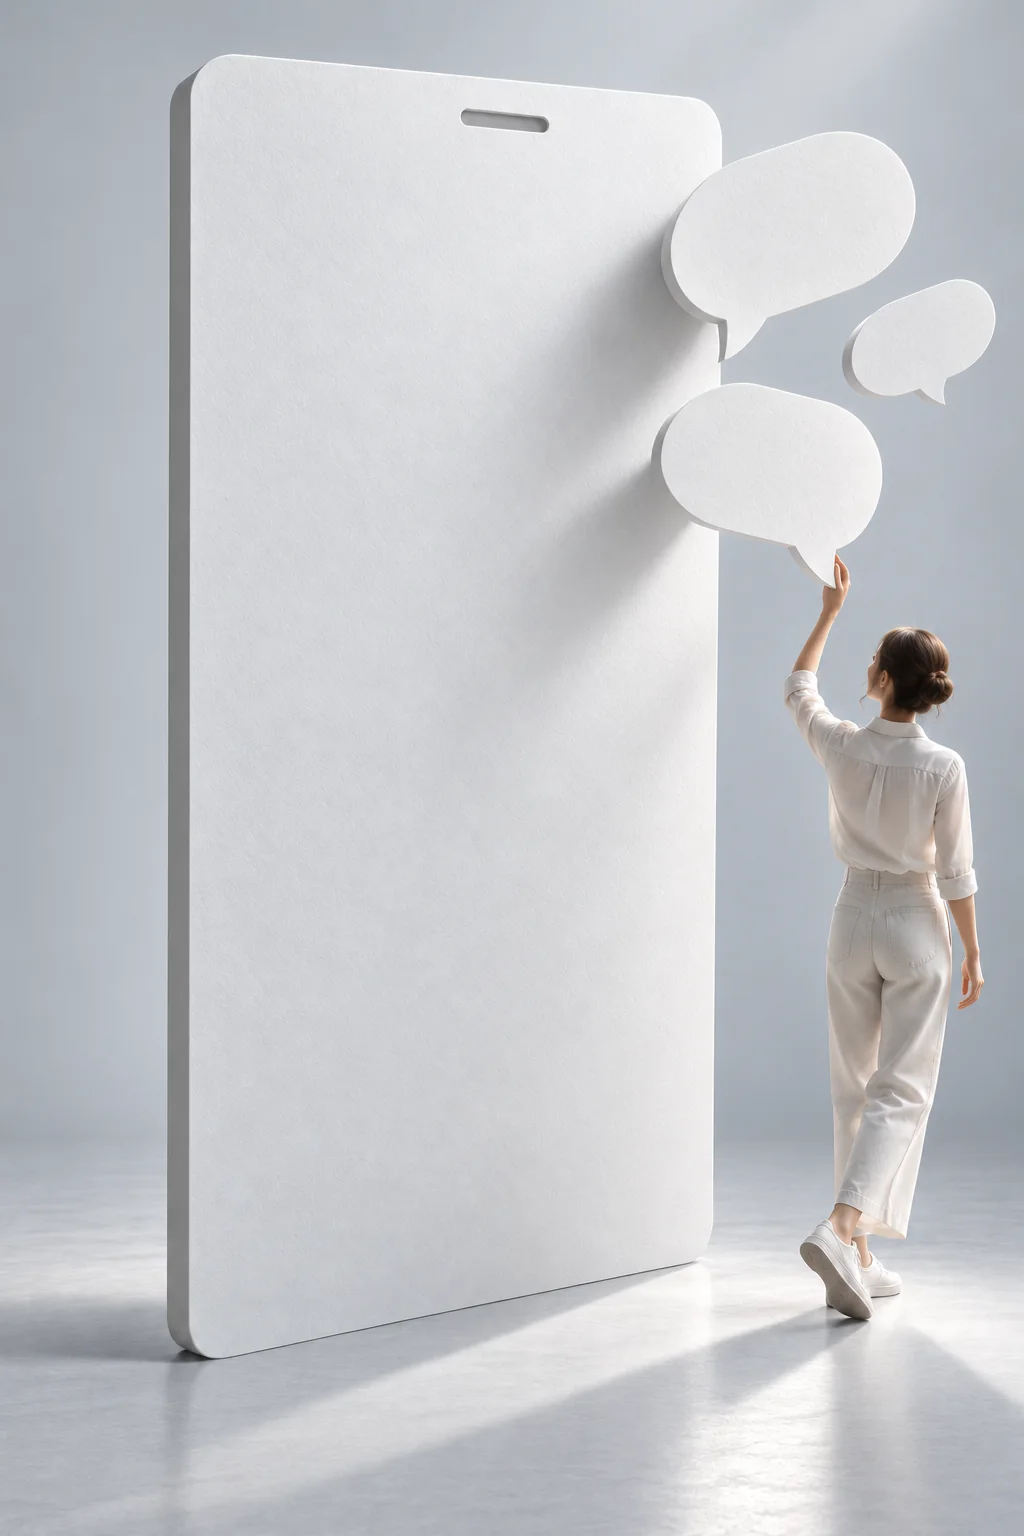
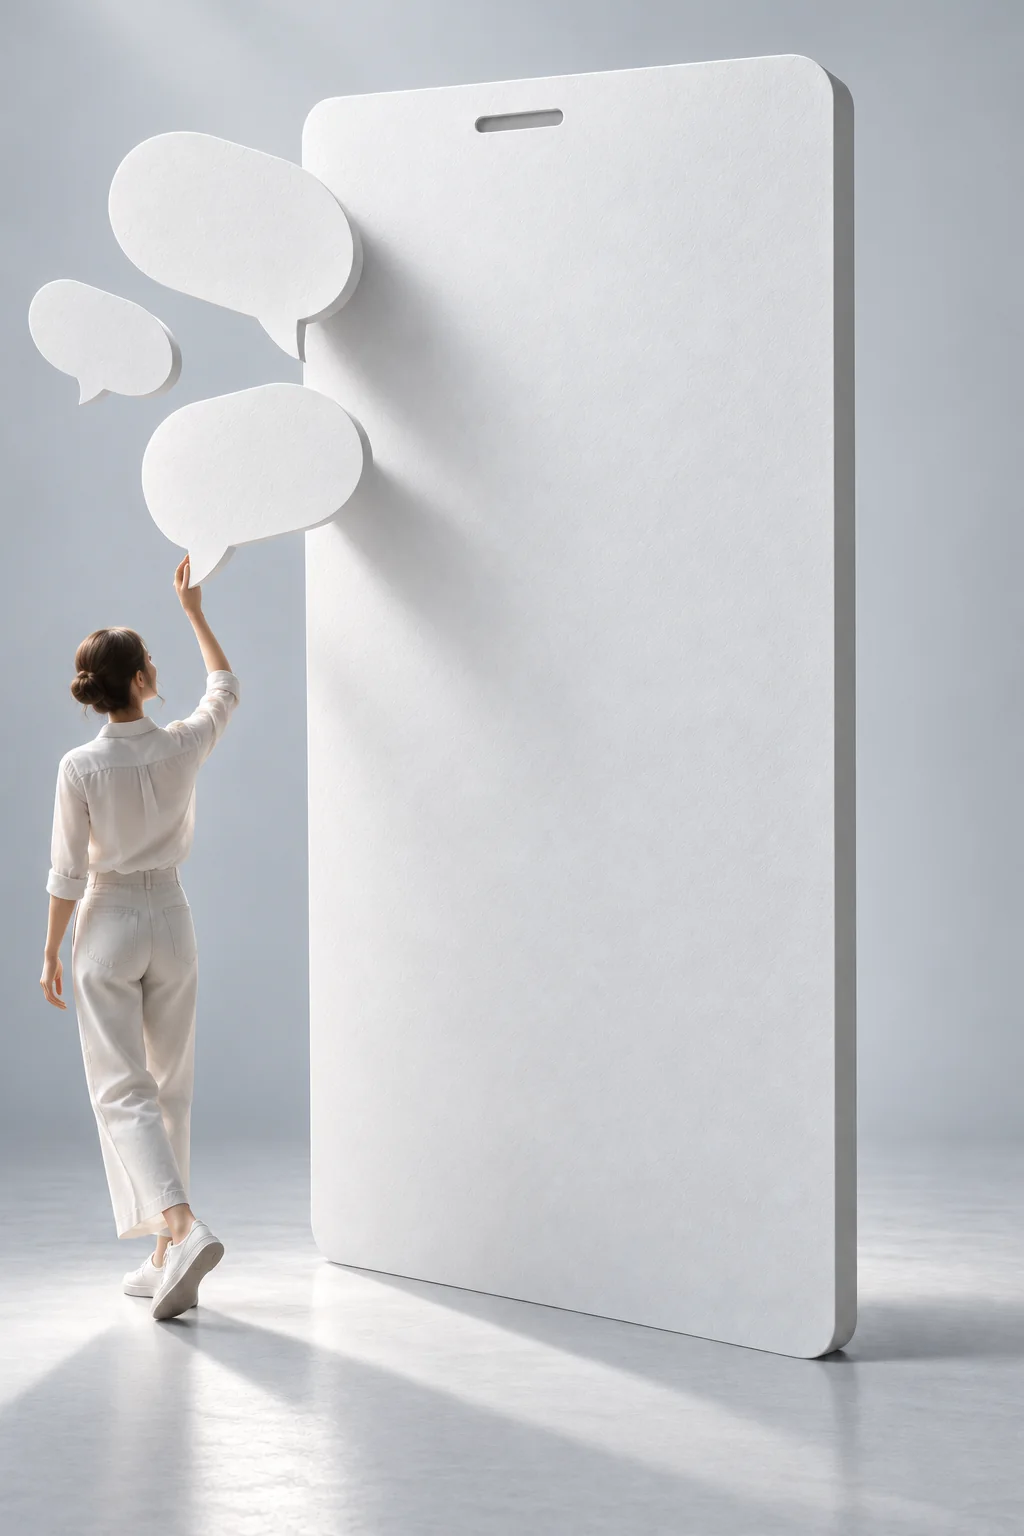
feat(onboarding): AI card follows the real AI screen, phone turned the other way
Palette A preview only.
- The printed AI page now follows the app's real AI screen (user's
  screenshot): back arrow, AI / Community tabs, avatar, a greeting, the
  A-REIT AI reply, a question, the guided question card (1/3 with three
  options, own reply, Skip / Next), the input bar and the disclaimer.
  Sample words only, no account data.
- The AI scene is mirrored so this phone faces the other way from card 1
  (woman on the left, bubbles upper left); face and clip mirrored, and the
  top of the page keeps clear of the bubbles.

diff --git a/components/onboarding/GuideCarousel.tsx b/components/onboarding/GuideCarousel.tsx
@@ -1,7 +1,7 @@
 'use client'
 import { useCallback, useEffect, useLayoutEffect, useRef, useState, type PointerEvent as ReactPointerEvent } from 'react'
 import { AnimatePresence, animate, motion, useMotionValue, useReducedMotion, useSpring, useTransform, type MotionValue } from 'motion/react'
-import { Wifi, Mic, Plus, ArrowDownToLine, ArrowLeftRight, ArrowRight, ArrowUpFromLine, ChartColumn, ChartPie, Check, Eye, Gift, House, Languages, LoaderCircle, Moon, QrCode } from 'lucide-react'
+import { Wifi, Mic, Plus, Pencil, ArrowLeft, ArrowDownToLine, ArrowLeftRight, ArrowRight, ArrowUpFromLine, ChartColumn, ChartPie, Check, Eye, Gift, House, Languages, LoaderCircle, Moon, QrCode } from 'lucide-react'
 import { localeOptions, useI18n, type AppLocale } from '@/lib/i18n'
 import { paletteAOnboarding } from '@/lib/palette-a-copy'
 import { displayInviteCode } from '@/lib/referral-invite'
@@ -64,28 +64,42 @@ const HOME_COPY: Partial<Record<AppLocale, { slogan: [string, string]; sub: stri
   en: { slogan: ['Good assets,', 'at a glance.'], sub: 'REITs, baskets and quant, one clear account', mine: 'My assets', actions: ['Deposit', 'Withdraw', 'Transfer', 'Receive'], home: 'Home', cash: 'Available', held: 'Holdings' },
 }
 
-const AI_COPY: Partial<Record<AppLocale, { title: string; hi: string; chips: string[]; ask: string; answer: string; rows: string[]; input: string }>> = {
-  'zh-CN': { title: 'AI 助手', hi: '有什么想看明白的？', chips: ['费用怎么算', '风险在哪里', '怎么配置'], ask: '这只产品的费用是多少？',
-    answer: '费用都写在产品披露里，我帮你列出来：', rows: ['申购费：买入时收取', '管理费：按年计提', '赎回规则：以披露为准'], input: '问问费用、风险或配置…' },
-  en: { title: 'AI assistant', hi: 'What would you like to understand?', chips: ['How fees work', 'Where the risk is', 'How to allocate'], ask: 'What are this product’s fees?',
-    answer: 'They are all in the product disclosure. Here they are:', rows: ['Subscription fee: when you buy', 'Management fee: yearly', 'Redemption: per the disclosure'], input: 'Ask about fees, risk or allocation…' },
+// The AI assistant page as it is in the app (the user's screenshot): tabs, a short exchange, a guided question card,
+// the input bar and the disclaimer. Sample words only; no real account data.
+const AI_COPY: Partial<Record<AppLocale, { tabs: [string, string]; hi: string; name: string; reply: string; ask: string; q: string; count: string; opts: [string, string, string]; own: string; skip: string; next: string; input: string; note: string }>> = {
+  'zh-CN': { tabs: ['AI 助手', '社区'], hi: '你好', name: 'A-REIT AI', reply: '你好！我是 A-REIT AI 助手。我可以介绍平台、解释和对比已上架的产品与篮子组合、协助做投资配置，或指导你在哪里查看账户、资金、费用和客服支持。',
+    ask: '我有一笔钱，怎么配置？', q: '这笔资金大概打算投资多久？', count: '1/3', opts: ['1 年以内', '1–3 年', '3 年以上'], own: '或者写下你自己的回答', skip: '跳过', next: '下一步',
+    input: '问问费用、风险或配置…', note: 'AI 可能出错，回答仅供参考，不构成投资建议。' },
+  en: { tabs: ['AI Support', 'Community'], hi: 'Hello', name: 'A-REIT AI', reply: 'Hi! I am the A-REIT AI assistant. I can introduce the platform, explain and compare listed products and baskets, help with allocation, or show you where to find your account, funds, fees and support.',
+    ask: 'How should I allocate some money?', q: 'Roughly how long will you invest this money?', count: '1/3', opts: ['Under 1 year', '1–3 years', 'Over 3 years'], own: 'Or write your own reply', skip: 'Skip', next: 'Next',
+    input: 'Ask about fees, risk or allocation…', note: 'AI can make mistakes. Answers are for reference only and are not investment advice.' },
 }
 
-/** The AI assistant page, printed the same way. */
+/** The AI assistant page, printed the same way (grey ink, hairlines; the brand teal on the mark and the AI dot). */
 function PrintedAi({ locale, active }: { locale: AppLocale; active: boolean }) {
   const c = AI_COPY[locale] ?? AI_COPY.en!
   const show = (k: number) => ({ initial: false as const, animate: { opacity: active ? 1 : 0 }, transition: { duration: .6, delay: active ? .2 + k * .14 : 0, ease: EASE } })
-  return <div className={styles.print}>
+  return <div className={`${styles.print} ${styles.aiPrint}`}>
     <div className={styles.pStatus}><b><Clock /></b><span><i className={styles.pSig}><i /><i /><i /><i /></i><Wifi size={15} strokeWidth={1.8} /><i className={styles.pBatt}><i /></i></span></div>
-    <motion.div className={styles.pTop} {...show(0)}><RwaLogoMark width={44} height={25} label="" /><b>{c.title}</b></motion.div>
-    <motion.h3 className={styles.aHi} {...show(1)}>{c.hi}</motion.h3>
-    <motion.div className={styles.aChips} {...show(2)}>{c.chips.map(x => <span key={x}>{x}</span>)}</motion.div>
-    <motion.div className={styles.aAsk} {...show(3)}>{c.ask}</motion.div>
-    <motion.div className={styles.aAnswer} {...show(4)}>
-      <p>{c.answer}</p>
-      <ul>{c.rows.map(r => <li key={r}>{r}</li>)}</ul>
+    <motion.div className={styles.aBar} {...show(0)}>
+      <ArrowLeft size={20} strokeWidth={1.5} />
+      <span className={styles.aTabs}><b>{c.tabs[0]}</b><span>{c.tabs[1]}</span></span>
+      <i className={styles.pAvatar}><img src="/media/palette-a/avatars/a00.svg" alt="" draggable={false} /></i>
+    </motion.div>
+    <motion.div className={styles.aMe} {...show(1)}>{c.hi}</motion.div>
+    <motion.div className={styles.aBot} {...show(2)}>
+      <span className={styles.aName}><RwaLogoMark width={22} height={12} label="" /><b>{c.name}</b></span>
+      <p>{c.reply}</p>
+    </motion.div>
+    <motion.div className={styles.aMe} {...show(3)}>{c.ask}</motion.div>
+    <motion.div className={styles.aQ} {...show(4)}>
+      <div className={styles.aQHead}><span>{c.q}</span><small>{c.count}</small></div>
+      {c.opts.map((o, k) => <div key={o} className={styles.aOpt}><i>{k + 1}</i><span>{o}</span></div>)}
+      <div className={styles.aOwn}><Pencil size={14} strokeWidth={1.4} /><span>{c.own}</span></div>
+      <div className={styles.aQFoot}><span>{c.skip}</span><b>{c.next}</b></div>
     </motion.div>
     <motion.div className={styles.aInput} {...show(5)}><Plus size={18} strokeWidth={1.5} /><span>{c.input}</span><Mic size={18} strokeWidth={1.5} /></motion.div>
+    <motion.p className={styles.aNote} {...show(6)}>{c.note}</motion.p>
   </div>
 }
 
@@ -137,7 +151,7 @@ type Quad = { tl: number[]; tr: number[]; br: number[]; bl: number[] }
     print is clipped to, an optional cut-out that sits above the print, and the page printed on it. */
 const SCENES: Record<string, { photo: string; person?: string; face: Quad; flat: string; Print: typeof PrintedHome }> = {
   paper: { photo: 'paper-scene-w', person: 'paper-person-w', face: FACE, flat: FLAT, Print: PrintedHome },
-  ai: { photo: 'ai-scene', face: {"tl": [18.55, 3.13], "tr": [69.73, 6.45], "br": [69.73, 81.71], "bl": [18.55, 88.74]}, flat: '18.6% 4.4%, 19.4% 3.2%, 21% 3.1%, 64.2% 5.8%, 64.2% 38.4%, 69.6% 38.4%, 69.6% 80.4%, 68% 81.6%, 21% 88.3%, 19.3% 87.6%, 18.6% 86%', Print: PrintedAi },
+  ai: { photo: 'ai-scene', face: {"tl": [30.27, 6.45], "tr": [81.45, 3.13], "br": [81.45, 88.74], "bl": [30.27, 81.71]}, flat: '81.4% 4.4%, 80.6% 3.2%, 79% 3.1%, 35.8% 5.8%, 35.8% 38.4%, 30.4% 38.4%, 30.4% 80.4%, 32% 81.6%, 79% 88.3%, 80.7% 87.6%, 81.4% 86%', Print: PrintedAi },
 }
 
 /**

diff --git a/components/onboarding/GuideCarousel.module.css b/components/onboarding/GuideCarousel.module.css
@@ -347,3 +347,31 @@
 .finishBtn i { display: grid; place-items: center; width: 46px; height: 46px; border-radius: 50%; color: #ffffff; background: #0a8a73; }
 :global(html[data-theme='dark']) .finishBtn { color: #0b1220; background: #f2f4f7; }
 .aAsk { margin-inline-end: 14%; max-width: 74%; }
+
+/* Round 25: the printed AI page follows the app's real AI screen. */
+.aBar { display: flex; align-items: center; justify-content: space-between; margin-top: 4px; }
+.aTabs { display: flex; padding: 3px; border-radius: 99px; font-size: 13px; box-shadow: inset 0 0 0 1.2px rgba(27, 33, 42, .45); }
+.aTabs b, .aTabs > span { padding: 6px 12px; border-radius: 99px; }
+.aTabs b { font-weight: 600; box-shadow: inset 0 0 0 1.2px #1b212a; }
+.aTabs > span { opacity: .7; }
+.aMe { align-self: flex-end; max-width: 74%; margin: 22px 14% 0 0; padding: 10px 16px; border-radius: 18px; font-size: 15px; box-shadow: inset 0 0 0 1.3px rgba(27, 33, 42, .55); }
+.aBot { margin-top: 18px; }
+.aName { display: flex; align-items: center; gap: 8px; }
+.aName b { font-family: var(--font-geist-mono, ui-monospace), monospace; font-size: 12px; font-weight: 500; letter-spacing: .14em; }
+.aBot p { margin: 8px 0 0; font-size: 14px; line-height: 1.6; }
+.aQ { margin-top: 18px; padding: 16px 16px 12px; border-radius: 22px; box-shadow: inset 0 0 0 1.3px rgba(27, 33, 42, .5); }
+.aQHead { display: flex; justify-content: space-between; align-items: baseline; gap: 10px; }
+.aQHead span { font-size: 15px; font-weight: 700; }
+.aQHead small { font-size: 12px; opacity: .7; }
+.aOpt { display: flex; align-items: center; gap: 12px; margin-top: 12px; font-size: 14.5px; }
+.aOpt i { display: grid; place-items: center; width: 24px; height: 24px; border-radius: 7px; font-style: normal; font-size: 12px; box-shadow: inset 0 0 0 1.2px rgba(27, 33, 42, .45); }
+.aOwn { display: flex; align-items: center; gap: 10px; margin-top: 14px; font-size: 13px; opacity: .6; }
+.aQFoot { display: flex; justify-content: flex-end; gap: 10px; margin-top: 10px; font-size: 13px; }
+.aQFoot span, .aQFoot b { padding: 7px 14px; border-radius: 99px; box-shadow: inset 0 0 0 1.2px rgba(27, 33, 42, .45); }
+.aQFoot b { font-weight: 600; color: #ffffff; background: #1b212a; text-shadow: none; }
+.aInput { margin-top: 16px; margin-bottom: 0; }
+.aNote { margin: 8px 0 0; font-size: 10.5px; line-height: 1.4; text-align: center; opacity: .65; }
+/* Card 4 is mirrored (phone turned the other way); the paper bubbles cover the face's upper-left corner,
+   so the top of the page keeps clear of it. */
+.aiPrint > :nth-child(-n+4) { margin-left: 13%; }
+.aiPrint .aMe { margin-right: 0; }
